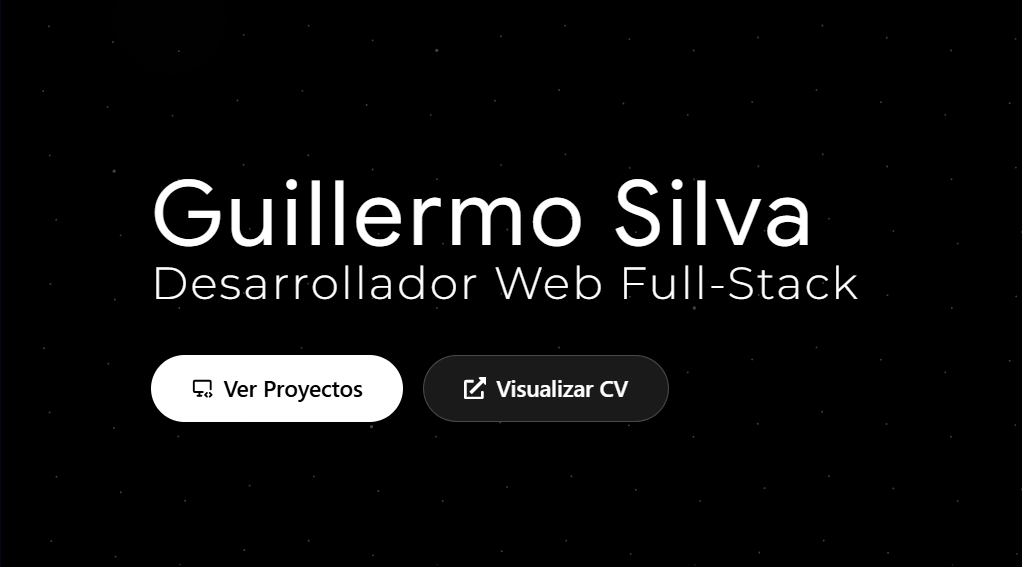
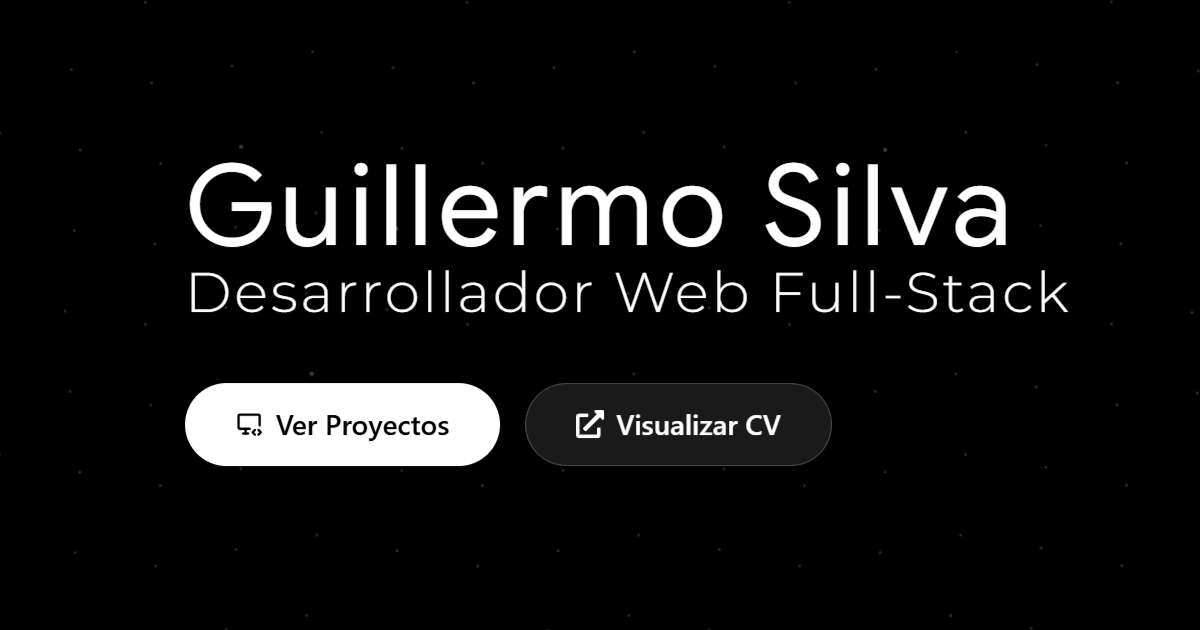
Projects center fixed

Changed region(s): [[0.1517, 0.2399, 0.91, 0.5397], [0.1213, 0.5996, 0.6977, 0.7496]]

diff --git a/src/components/ProjectCard.tsx b/src/components/ProjectCard.tsx
@@ -8,6 +8,7 @@ interface ProjectCardProps {
   description: string;
   tags: string[];
   githubLink: string;
+  className?: string;
 }
 
 export const ProjectCard: React.FC<ProjectCardProps> = ({
@@ -16,8 +17,9 @@ export const ProjectCard: React.FC<ProjectCardProps> = ({
   description,
   tags,
   githubLink,
+  className
 }) => (
-    <div className="bg-white/5 backdrop-blur-md border border-white/10 rounded-2xl overflow-hidden flex flex-col hover:border-white/20 transition-colors">
+    <div className={`bg-white/5 backdrop-blur-md border border-white/10 rounded-2xl overflow-hidden flex flex-col hover:border-white/20 transition-colors ${className}`}>
       <ImageCarousel images={images} className="w-full h-48 md:h-56" />
 
       <div className="p-5 flex flex-col gap-3 flex-1">

diff --git a/index.html b/index.html
@@ -5,7 +5,7 @@
     <link rel="canonical" href="https://guillermosilvam.github.io/portafolio/">
     <meta name="viewport" content="width=device-width, initial-scale=1.0" />
     <link rel="icon" href="/favicon.ico" type="image/x-icon">
-    <title>Portafolio</title>
+    <title>Guillermosilvam Portafolio | Desarrollador FullStack</title>
     <meta name="description" content="Ingeniero de Sistemas | Desarrollador Full-Stack | React | TypeScript | NodeJS | Express | Python | Django | SQL |" />
   
     <meta name="google-site-verification" content="wGVJXr954u2iHrYonVT1UKr5fmi-rnDLNPr34HYsOas" />

diff --git a/src/screen/ProjectsSection.tsx b/src/screen/ProjectsSection.tsx
@@ -94,10 +94,10 @@ useEffect(() => {
 
       <div
         ref={gridRef}
-        className="relative z-10 grid grid-cols-1 md:grid-cols-2 lg:grid-cols-3 gap-8 max-w-7xl mx-auto"
+        className="relative z-10 flex flex-wrap justify-center gap-8 max-w-7xl mx-auto px-1.5"
       >
         {projects.map((project, index) => (
-          <ProjectCard key={index} {...project} />
+          <ProjectCard className='flex-1 sm:min-w-100 sm:max-w-100 min-w-82 max-w-82' key={index} {...project} />
         ))}
       </div>
     </section>
